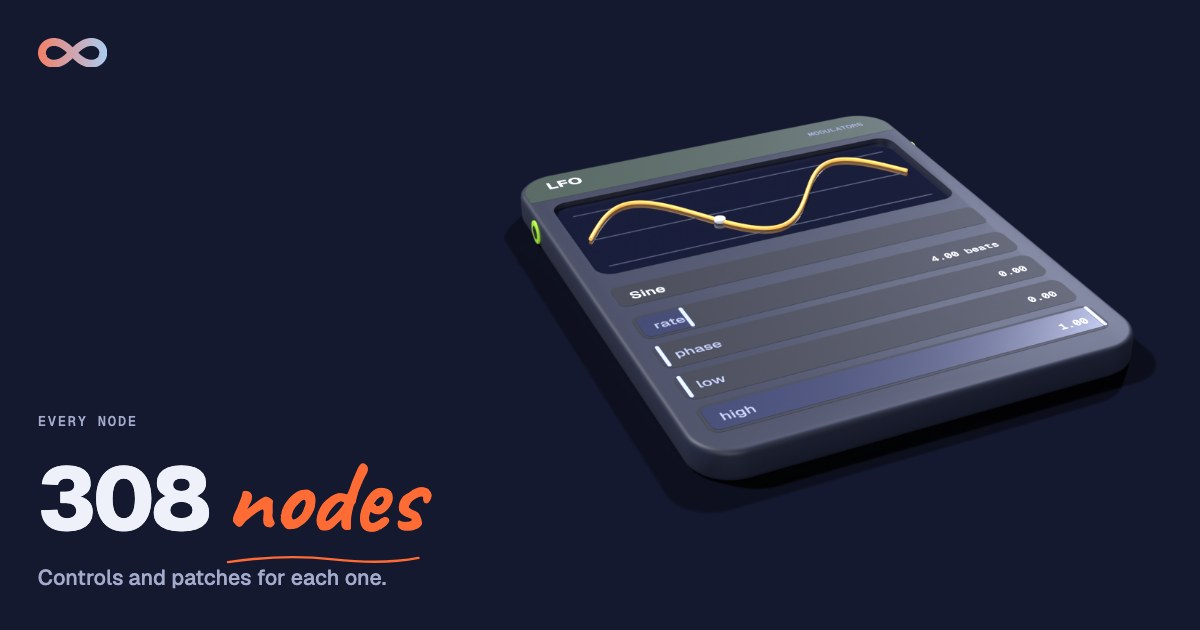
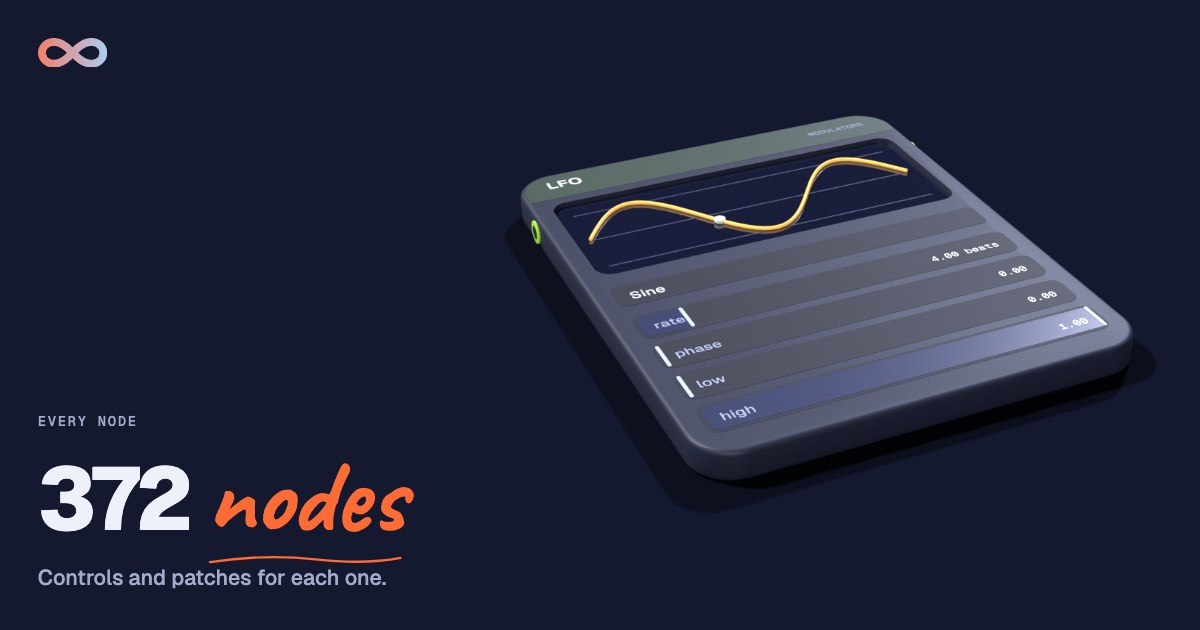
Website 2.0: fix stale Windows/Linux claims, OG cards for plugin/buy/download, 372 node count, gen_nodes refuses without a binary
- utcp.json, llms.txt, llms-full.txt, gen_seo.py: Windows (x64) and Linux (x86_64) ship from CI; drop 'to follow'
- gen_og_cards.py: 372 nodes (was 377); cards for plugin, buy, download; regenerated nodes, developers, plugin, buy, download OG images at 1200x630
- gen_nodes.py: exit before touching patches when the binary is missing (a no-build run deleted 308 patches)

Changed region(s): [[0.0617, 0.7238, 0.37, 0.8444], [0.185, 0.8746, 0.3392, 0.9048]]

diff --git a/website/developers.html b/website/developers.html
@@ -11,7 +11,7 @@
   <link rel="canonical" href="https://infinitedevices.org/developers.html">
   <meta property="og:title" content="Infinite for developers: CLI, Python SDK and MCP">
   <meta property="og:description" content="Run Infinite without a window. Render video and audio from a text patch, call it from Python, or give an AI agent the twelve MCP tools. Free and open source.">
-  <meta property="og:image" content="https://infinitedevices.org/assets/og-image.jpg">
+  <meta property="og:image" content="https://infinitedevices.org/assets/og/developers.jpg">
   <meta property="og:url" content="https://infinitedevices.org/developers.html">
   <meta property="og:type" content="website">
   <meta property="og:site_name" content="Infinite">

diff --git a/website/plugin.html b/website/plugin.html
@@ -11,7 +11,7 @@
   <link rel="canonical" href="https://infinitedevices.org/plugin.html">
   <meta property="og:title" content="Infinite plugin for VST3 and AU">
   <meta property="og:description" content="The whole Infinite canvas inside your DAW as a VST3 and AU plugin, Instrument and FX. Try the free app first.">
-  <meta property="og:image" content="https://infinitedevices.org/assets/og/blog.jpg">
+  <meta property="og:image" content="https://infinitedevices.org/assets/og/plugin.jpg">
   <meta property="og:url" content="https://infinitedevices.org/plugin.html">
   <meta property="og:type" content="website">
   <meta property="og:site_name" content="Infinite">

diff --git a/website/buy.html b/website/buy.html
@@ -11,7 +11,7 @@
   <link rel="canonical" href="https://infinitedevices.org/buy.html">
   <meta property="og:title" content="Buy the Infinite VST3 and AU plugin">
   <meta property="og:description" content="One-time $149, $99 launch price, two computers, updates within the major version you buy (1.x).">
-  <meta property="og:image" content="https://infinitedevices.org/assets/og/blog.jpg">
+  <meta property="og:image" content="https://infinitedevices.org/assets/og/buy.jpg">
   <meta property="og:url" content="https://infinitedevices.org/buy.html">
   <meta property="og:type" content="website">
   <meta property="og:site_name" content="Infinite">

diff --git a/website/download.html b/website/download.html
@@ -9,7 +9,7 @@
   <title>Download Infinite VST | Infinite</title>
   <meta name="description" content="Download the Infinite plugin installer for macOS, Windows or Linux, and how to open it.">
   <link rel="canonical" href="https://infinitedevices.org/download.html">
-  <meta property="og:image" content="https://infinitedevices.org/assets/og/blog.jpg">
+  <meta property="og:image" content="https://infinitedevices.org/assets/og/download.jpg">
   <meta property="og:url" content="https://infinitedevices.org/download.html">
   <meta property="og:type" content="website">
   <meta property="og:site_name" content="Infinite">

diff --git a/tools/website/gen_og_cards.py b/tools/website/gen_og_cards.py
@@ -29,11 +29,14 @@ PAGES = {
     "samples/visuals/index.html": ("samples-visuals", "Free visual samples", "Visual samples", "Visual", "Looping visuals to drop into your own work.", BALL),
     "library.html": ("library", "Infinite library", "The library", "library", "Templates, shaders, sounds and skills.", PATCH),
     "blog/index.html": ("blog", "Infinite blog", "Notes from the canvas", "canvas", "Audio-reactive visuals, music and code.", NODE),
-    "nodes/index.html": ("nodes", "Every node", "377 nodes", "nodes", "Controls and patches for each one.", LFO),
+    "nodes/index.html": ("nodes", "Every node", "372 nodes", "nodes", "Controls and patches for each one.", LFO),
     "embeds/index.html": ("embeds", "Audio-reactive visuals", "Visuals that listen", "listen", "Free to embed on any page.", BALL),
     "musicians.html": ("musicians", "Infinite for musicians", "For musicians", "musicians", "Synths, effects and plugins on one canvas.", LFO),
     "artists.html": ("artists", "Infinite for artists", "For artists", "artists", "Images that move, made on one canvas.", FIELD),
     "vjs.html": ("vjs", "Infinite for VJs", "For VJs", "VJs", "Live visuals that follow the music.", BALL),
+    "plugin.html": ("plugin", "Infinite plugin", "Infinite in your DAW", "DAW", "VST3 and AU, instrument and FX. Offline licence.", PATCH),
+    "buy.html": ("buy", "Buy Infinite VST", "$149, or $99 at launch", "launch", "One-time licence. Two computers. Works offline.", PATCH),
+    "download.html": ("download", "Download Infinite VST", "Get the plugin", "plugin", "Installers for macOS, Windows and Linux.", NODE),
     "developers.html": ("developers", "Infinite for developers", "For developers", "developers", "CLI, Python SDK and MCP.", PATCH),
     "chat.html": ("chat", "Infinite chat", "Talk to your patch", "patch", "Claude, ChatGPT or Gemini, in the app.", PATCH),
     "creative-coders.html": ("creative-coders", "Infinite for creative coders", "For coders", "coders", "Field, sketches and shaders.", FIELD),

diff --git a/tools/website/gen_seo.py b/tools/website/gen_seo.py
@@ -246,7 +246,7 @@ def main():
         "",
         "### Infinite VST3 & AU Plugin (Run inside any DAW)", "",
         f"- [Infinite Plugin Overview]({BASE}plugin.html) | [Buy / Pre-order]({BASE}buy.html)",
-        "- Formats: 64-bit VST3 and Audio Unit (AUv2), macOS first (Apple Silicon & Intel Universal), Windows and Linux to follow.",
+        "- Formats: 64-bit VST3 and Audio Unit (AUv2), macOS (Apple Silicon & Intel Universal), Windows (x64) and Linux (x86_64).",
         "- Hosts: Ableton Live, Logic Pro, FL Studio, Reaper, Bitwig Studio, Cubase, Studio One.",
         "- Pricing: One-time perpetual purchase of $149 ($99 launch price). Zero subscriptions.",
         "- Licensing: Offline Ed25519 cryptographic licence key (`.inflic`), valid on 2 computers simultaneously, works 100% offline with no account login or phoning home. Free updates for all 1.x releases.",

diff --git a/tools/website/gen_nodes.py b/tools/website/gen_nodes.py
@@ -340,6 +340,9 @@ def pdf_pages():
 
 
 def build():
+    # Safety: without a binary every validate() fails and the patch loop below deletes every .inf. Refuse first.
+    if not os.path.exists(BIN):
+        sys.exit("gen_nodes: no binary at %s; refusing to run (it would delete the patches). Pass a built app." % BIN)
     refresh = "--refresh" in sys.argv
     if refresh or not os.path.exists(os.path.join(DATA, "pdf_cards.json")):
         refresh_pdf_cards()
